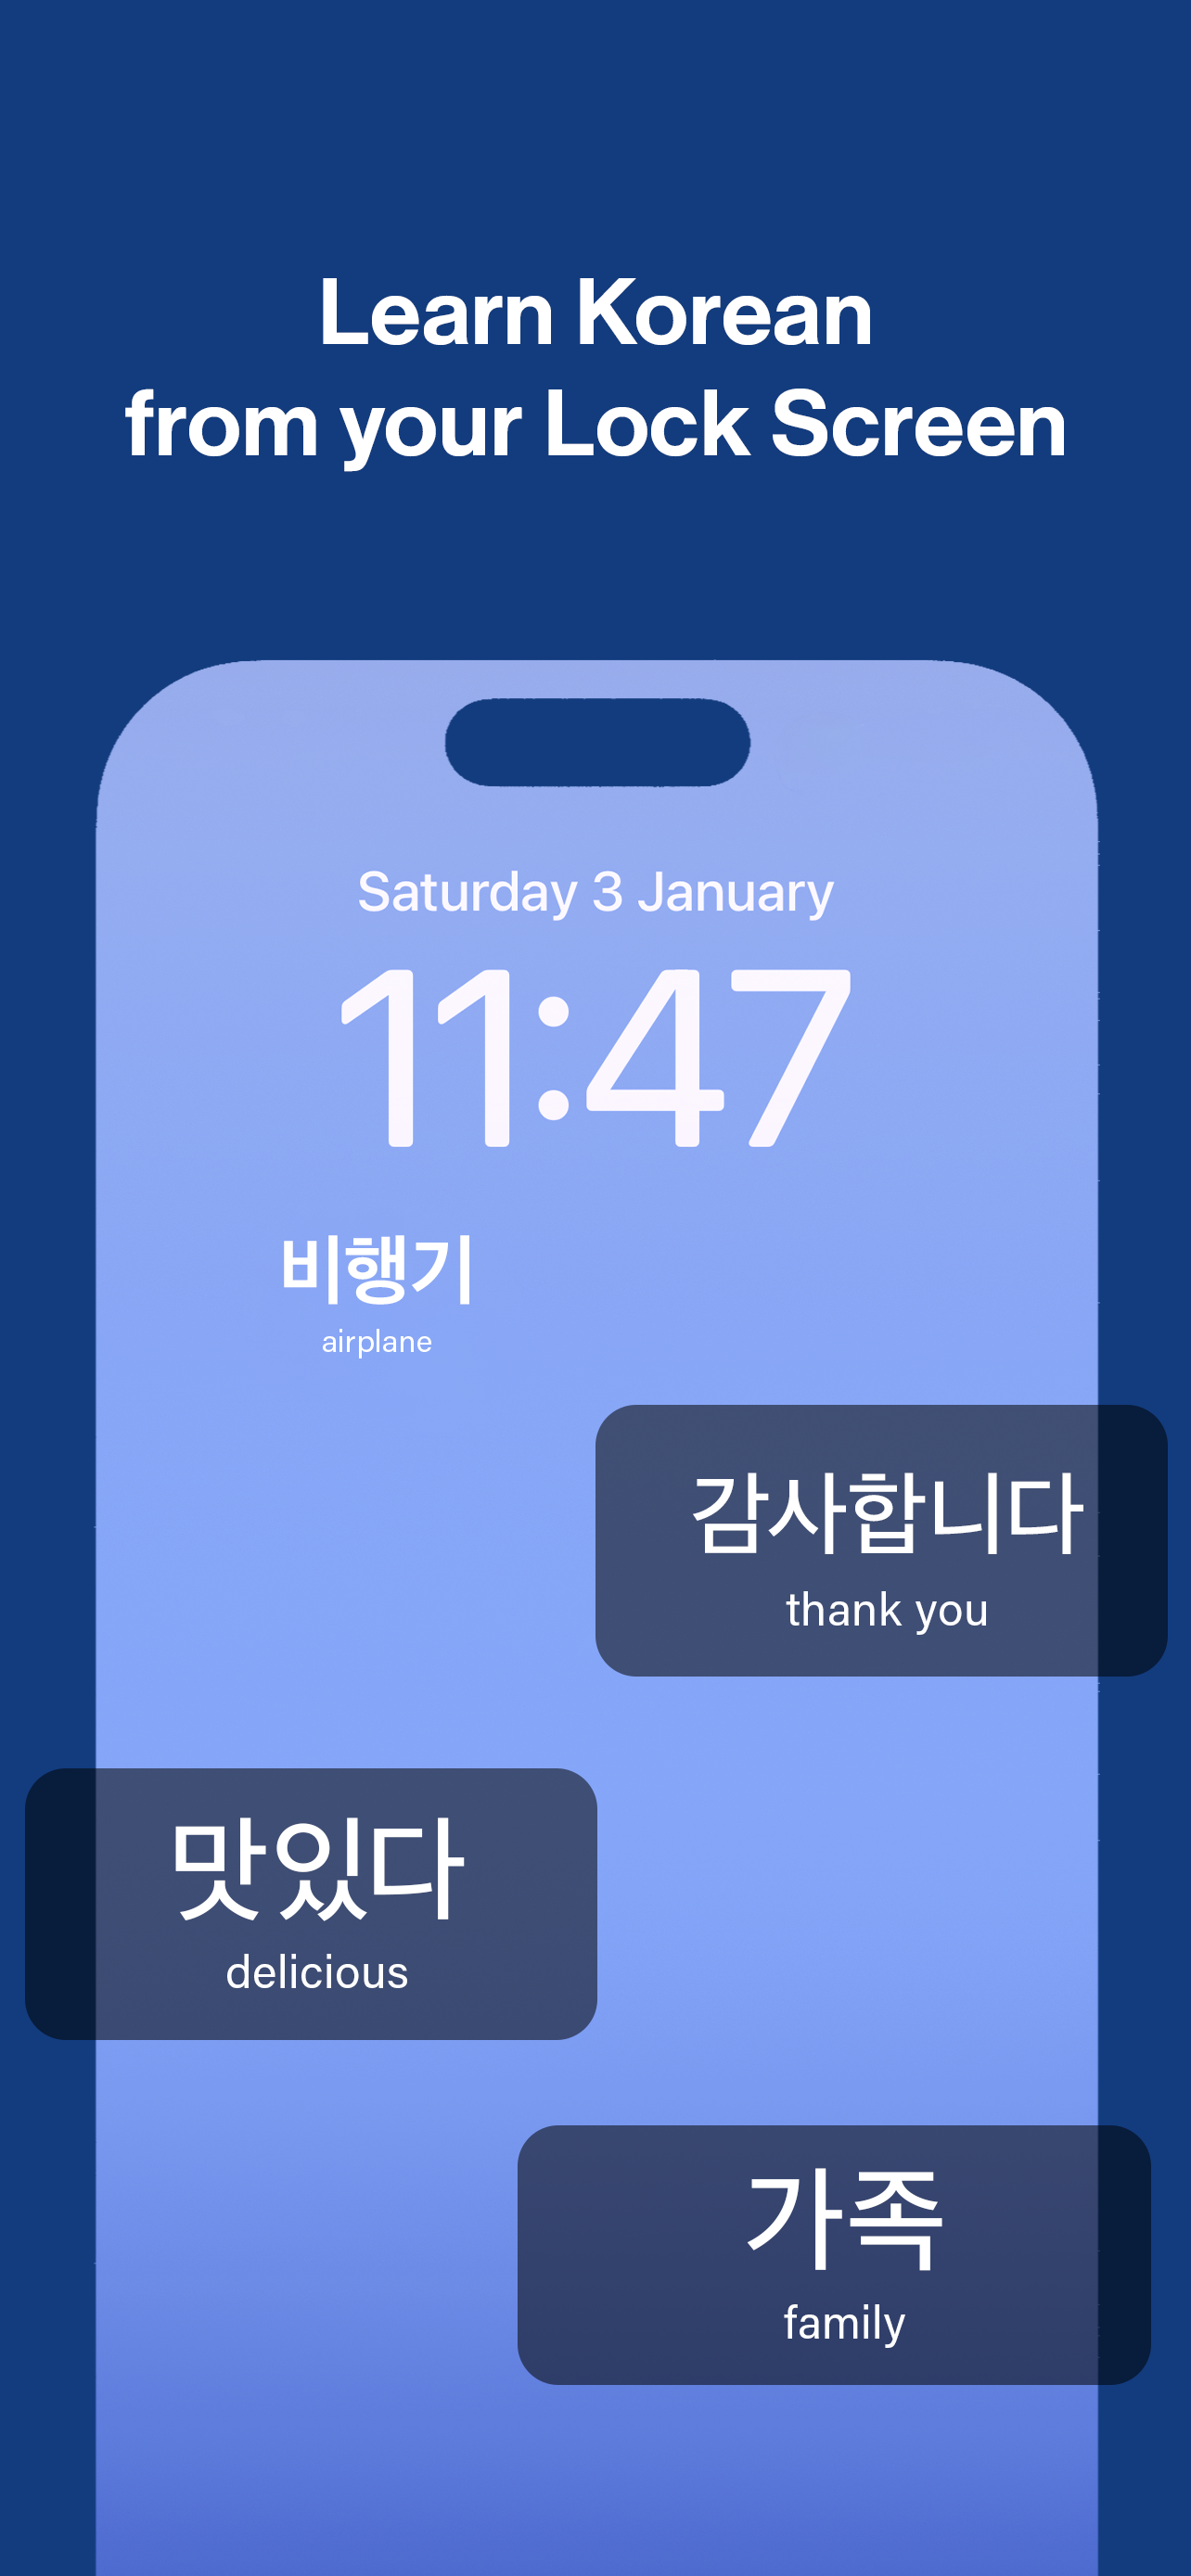
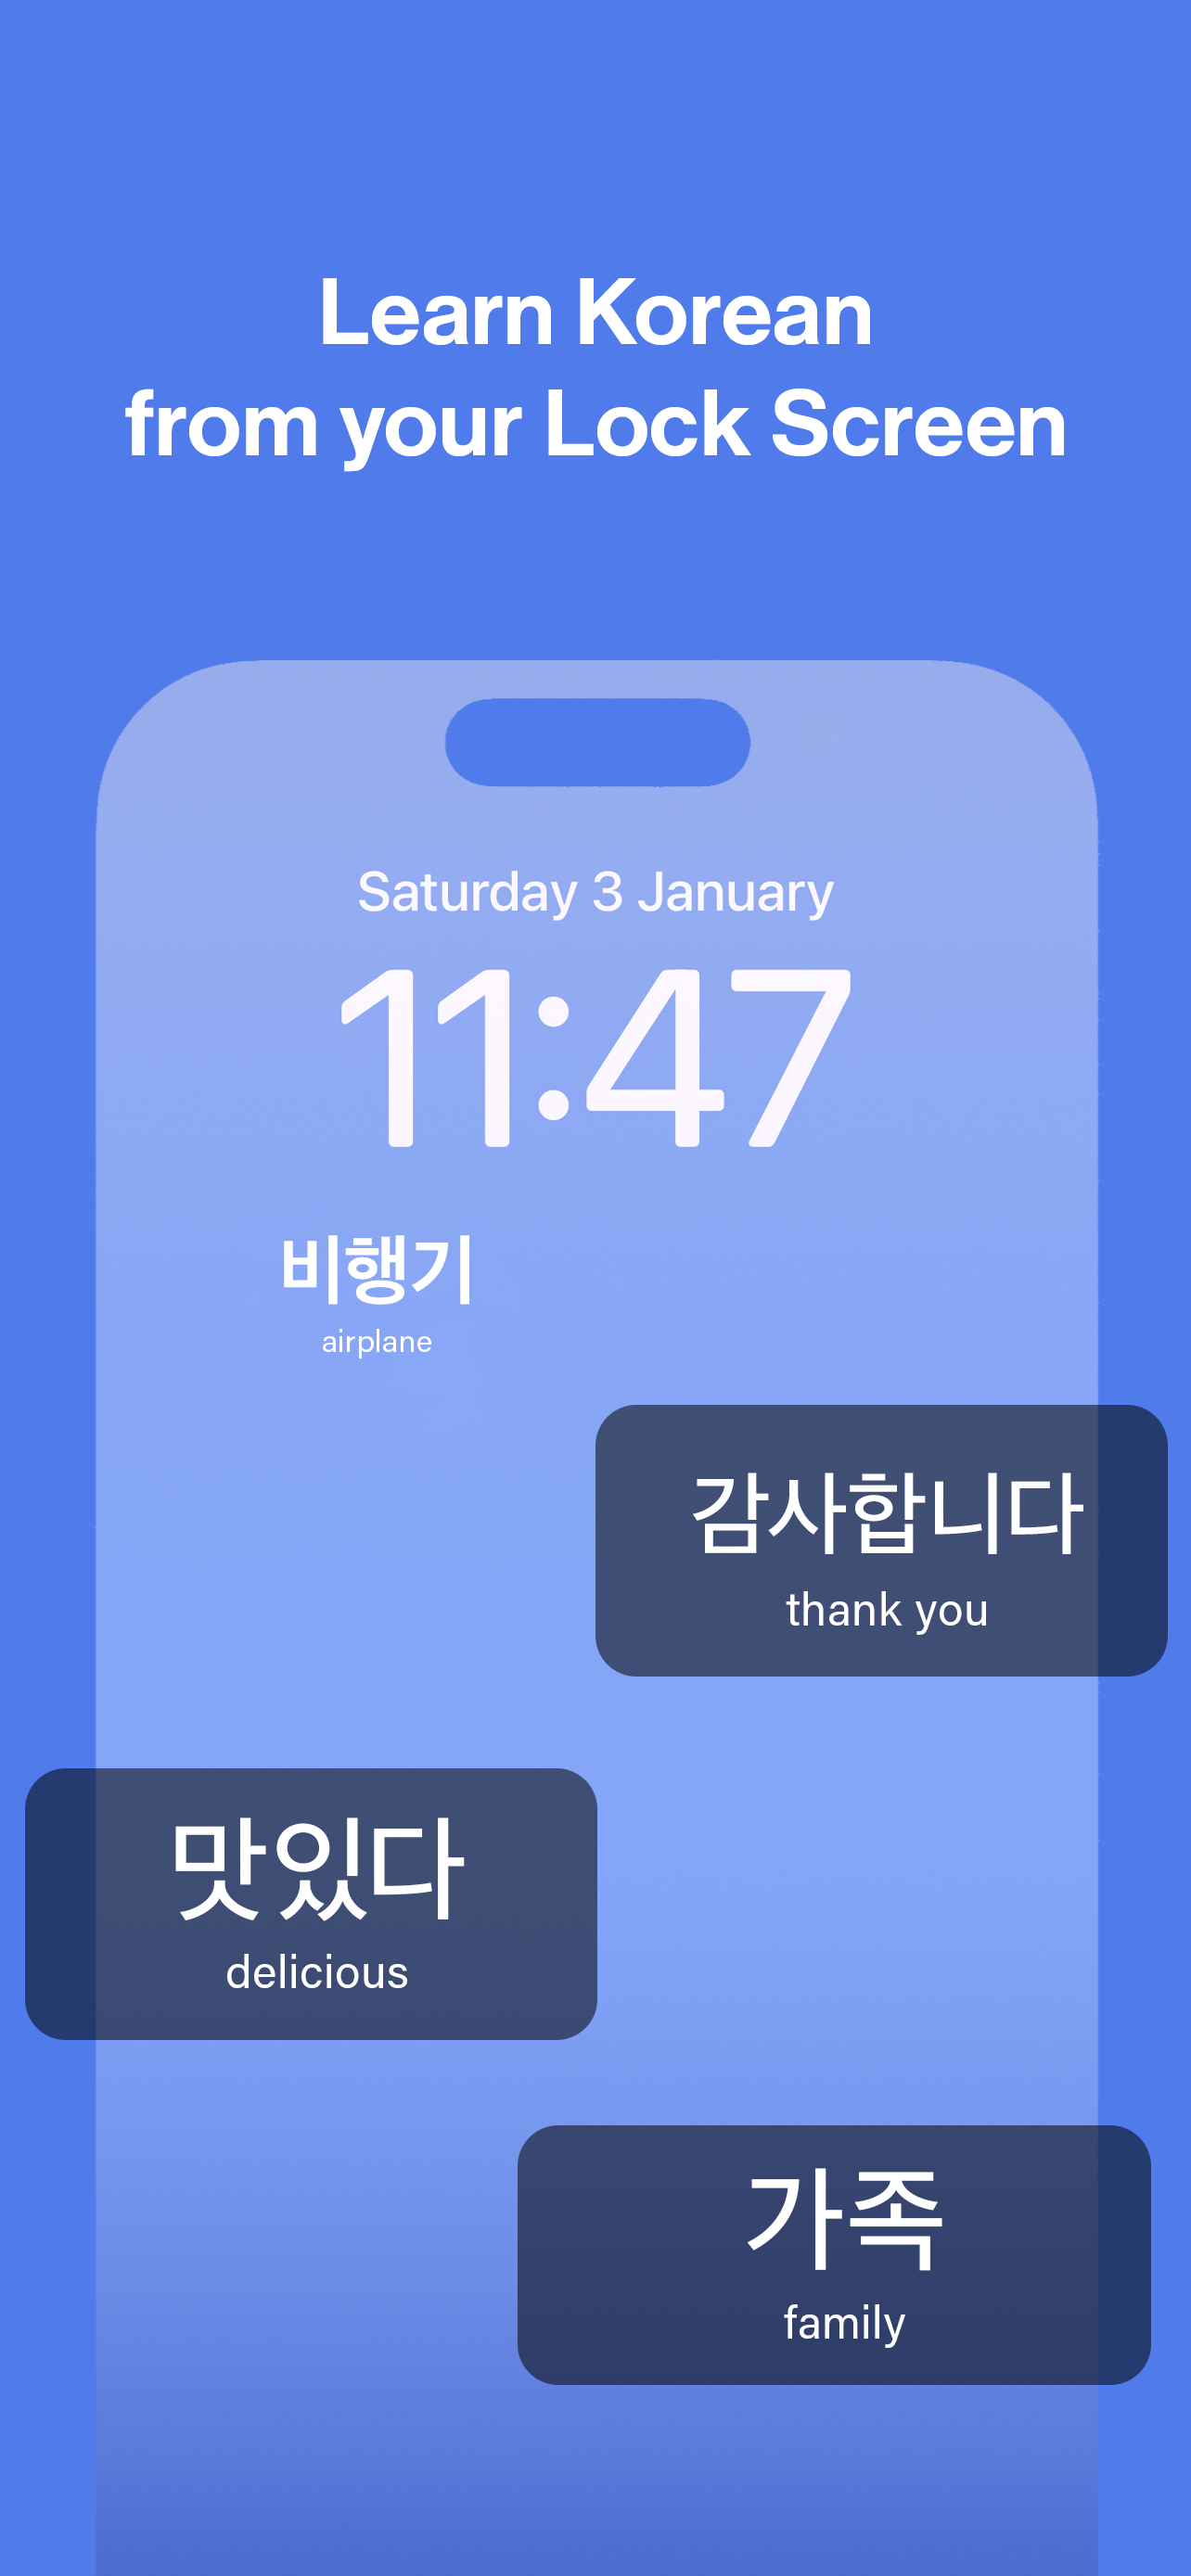
Remove waitlist sign up, add preview images

diff --git a/app/page.tsx b/app/page.tsx
@@ -1,5 +1,4 @@
 import Image from "next/image";
-import Script from "next/script";
 
 export default function Home() {
   return (
@@ -78,9 +77,9 @@ export default function Home() {
             </div>
 
             {/* Store Buttons */}
-            {/* <div className="w-full pt-2 flex justify-center gap-3 flex-wrap">
+            <div className="w-full pt-2 flex justify-center lg:justify-start gap-3 flex-wrap">
               <a
-                href="https://apps.apple.com/us/app/daily-hangul/id6756919959"
+                href="https://apps.apple.com/az/app/daily-hangul/id6767769904"
                 target="_blank"
                 rel="noopener noreferrer"
                 className="inline-flex items-center justify-center gap-3 px-6 py-3 text-white bg-black rounded-xl hover:bg-black/80 transition-all shadow-lg hover:shadow-xl hover:-translate-y-0.5 active:translate-y-0"
@@ -93,48 +92,6 @@ export default function Home() {
                   <span className="text-xl font-bold tracking-wide">App Store</span>
                 </div>
               </a>
-              <a
-                href="https://play.google.com/store/apps/details?id=com.alexliu.dailyhangul"
-                target="_blank"
-                rel="noopener noreferrer"
-                className="inline-flex items-center justify-center gap-3 px-6 py-3 text-white bg-black rounded-xl hover:bg-black/80 transition-all shadow-lg hover:shadow-xl hover:-translate-y-0.5 active:translate-y-0"
-              >
-                <svg viewBox="0 0 512 512" className="w-7 h-7">
-                  <path d="M325.3 234.3L104.6 13l280.8 161.2-60.1 60.1z" fill="#00D2FF" />
-                  <path d="M47 0C34 6.8 25.3 19.2 25.3 35.3v441.3c0 16.1 8.7 28.5 21.7 35.3l256.6-256L47 0z" fill="#00F076" />
-                  <path d="M472.2 225.6l-58.9-34.1-65.7 64.5 65.7 64.5 60.1-34.1c18-14.3 18-46.5-1.2-60.8z" fill="#FFDA00" />
-                  <path d="M104.6 499l280.8-161.2-60.1-60.1L104.6 499z" fill="#FF3A44" />
-                </svg>
-                <div className="flex flex-col items-start leading-none">
-                  <span className="text-xs font-medium opacity-80 mb-0.5">Get it on</span>
-                  <span className="text-xl font-bold tracking-wide">Google Play</span>
-                </div>
-              </a>
-            </div> */}
-
-            {/* Waitlist Form */}
-            <div className="w-full pt-2 flex flex-col items-center">
-              <iframe
-                src="https://subscribe-forms.beehiiv.com/52117acb-b1f7-4ccb-a133-f9caad60fff1"
-                className="beehiiv-embed"
-                data-test-id="beehiiv-embed"
-                frameBorder="0"
-                style={{
-                  margin: 0,
-                  borderRadius: "0px",
-                  backgroundColor: "transparent",
-                  width: "400px",
-                  maxWidth: "100%",
-                  boxShadow: "0 0 #0000",
-                }}
-              />
-              <Script
-                src="https://subscribe-forms.beehiiv.com/embed.js"
-                strategy="afterInteractive"
-              />
-              <p className="text-xs text-foreground/50 mt-1 text-center max-w-[560px]">
-                By joining, you agree to receive updates from us.
-              </p>
             </div>
 
             {/* Feature Badges */}
@@ -144,21 +101,9 @@ export default function Home() {
           </div>
 
           {/* Right Column: App Preview */}
-          <div className="relative w-full aspect-square max-w-[500px] mx-auto lg:max-w-none flex items-center justify-center">
-            <div className="relative w-[55%] aspect-[9/19.5]">
-              <Image
-                src="/app-preview.png"
-                alt="App Preview"
-                fill
-                className="object-cover rounded-[2.5rem] shadow-2xl border-4 border-gray-900/10 bg-white"
-                priority
-              />
-            </div>
-          </div>
-
-          {/* Original dual-phone preview (restore later) */}
-          {/* <div className="relative w-full aspect-square max-w-[500px] mx-auto lg:max-w-none">
+          <div className="relative w-full aspect-square max-w-[500px] mx-auto lg:max-w-none">
             <div className="relative w-full h-full flex items-center justify-center">
+              {/* Main Phone */}
               <div className="relative w-[55%] aspect-[9/19.5] z-10 transform -rotate-2 -translate-x-16 lg:-translate-x-32">
                 <Image
                   src="/app-preview.png"
@@ -168,6 +113,7 @@ export default function Home() {
                   priority
                 />
               </div>
+              {/* Secondary Phone (Floating Right) */}
               <div className="absolute w-[50%] aspect-[9/19.5] z-0 transform translate-x-16 lg:translate-x-32 translate-y-12 rotate-6 opacity-100">
                 <Image
                   src="/app-preview-2.png"
@@ -178,7 +124,7 @@ export default function Home() {
                 />
               </div>
             </div>
-          </div> */}
+          </div>
         </div>
 
         {/* Reviews Section */}

diff --git a/app/admin/components/CharacterEditModal.tsx b/app/admin/components/CharacterEditModal.tsx
@@ -6,6 +6,7 @@ import { supabase } from "@/lib/supabase";
 export type ExampleSentence = {
     id?: number;
     korean: string;
+    romanization: string;
     english: string;
     audio_url?: string | null;
 };
@@ -13,6 +14,7 @@ export type ExampleSentence = {
 export type Character = {
     id: string;
     character: string;
+    romanization: string;
     meaning: string;
     freq_rank: number;
     topik_level: number;
@@ -92,12 +94,15 @@ export default function CharacterEditModal({ character, onClose, onSave }: Chara
             try {
                 const { data, error } = await supabase
                     .from("example_sentences")
-                    .select("id, korean, english, audio_url")
+                    .select("id, korean, romanization, english, audio_url")
                     .eq("character_id", character.id)
                     .order("id");
 
                 if (error) throw error;
-                const loaded: ExampleSentence[] = data || [];
+                const loaded: ExampleSentence[] = (data || []).map(s => ({
+                    ...s,
+                    romanization: s.romanization ?? "",
+                }));
                 setSentences(loaded);
                 const originals = new Map<number, ExampleSentence>();
                 for (const s of loaded) {
@@ -123,7 +128,7 @@ export default function CharacterEditModal({ character, onClose, onSave }: Chara
     };
 
     const handleAddSentence = () => {
-        setSentences(prev => [...prev, { korean: "", english: "" }]);
+        setSentences(prev => [...prev, { korean: "", romanization: "", english: "" }]);
     };
 
     const handleRemoveSentence = (index: number) => {
@@ -140,6 +145,7 @@ export default function CharacterEditModal({ character, onClose, onSave }: Chara
                 .update({
                     meaning: editingCharacter.meaning,
                     character: editingCharacter.character,
+                    romanization: editingCharacter.romanization,
                     freq_rank: editingCharacter.freq_rank,
                     topik_level: editingCharacter.topik_level,
                     category: editingCharacter.category,
@@ -174,6 +180,7 @@ export default function CharacterEditModal({ character, onClose, onSave }: Chara
                 .map(s => ({
                     character_id: editingCharacter.id,
                     korean: s.korean,
+                    romanization: s.romanization,
                     english: s.english,
                 }));
             if (toInsert.length > 0) {
@@ -192,6 +199,7 @@ export default function CharacterEditModal({ character, onClose, onSave }: Chara
                 const original = originalSentences.get(s.id);
                 if (original
                     && original.korean === s.korean
+                    && original.romanization === s.romanization
                     && original.english === s.english
                 ) continue;
 
@@ -199,6 +207,7 @@ export default function CharacterEditModal({ character, onClose, onSave }: Chara
                     .from("example_sentences")
                     .update({
                         korean: s.korean,
+                        romanization: s.romanization,
                         english: s.english,
                     })
                     .eq("id", s.id)
@@ -232,14 +241,25 @@ export default function CharacterEditModal({ character, onClose, onSave }: Chara
 
                 <form onSubmit={handleSubmit} className="grid grid-cols-1 md:grid-cols-2 gap-6">
                     <div className="space-y-4">
-                        <div>
-                            <label className="block text-sm font-medium text-gray-700">Word</label>
-                            <input
-                                type="text"
-                                value={editingCharacter.character}
-                                onChange={(e) => setEditingCharacter({ ...editingCharacter, character: e.target.value })}
-                                className="mt-1 block w-full border border-gray-300 rounded-md shadow-sm p-2"
-                            />
+                        <div className="grid grid-cols-2 gap-4">
+                            <div>
+                                <label className="block text-sm font-medium text-gray-700">Word</label>
+                                <input
+                                    type="text"
+                                    value={editingCharacter.character}
+                                    onChange={(e) => setEditingCharacter({ ...editingCharacter, character: e.target.value })}
+                                    className="mt-1 block w-full border border-gray-300 rounded-md shadow-sm p-2"
+                                />
+                            </div>
+                            <div>
+                                <label className="block text-sm font-medium text-gray-700">Romanization</label>
+                                <input
+                                    type="text"
+                                    value={editingCharacter.romanization ?? ""}
+                                    onChange={(e) => setEditingCharacter({ ...editingCharacter, romanization: e.target.value })}
+                                    className="mt-1 block w-full border border-gray-300 rounded-md shadow-sm p-2"
+                                />
+                            </div>
                         </div>
 
                         <div>
@@ -367,6 +387,16 @@ export default function CharacterEditModal({ character, onClose, onSave }: Chara
                                                         )}
                                                     </button>
                                                 </div>
+                                            </div>
+                                            <div>
+                                                <label className="block text-xs font-medium text-gray-500 mb-1">Romanization</label>
+                                                <input
+                                                    type="text"
+                                                    value={sentence.romanization ?? ""}
+                                                    onChange={(e) => handleSentenceChange(index, "romanization", e.target.value)}
+                                                    className="block w-full border-gray-300 rounded-md shadow-sm p-1.5 text-sm border focus:ring-black focus:border-black"
+                                                    placeholder="Romanization..."
+                                                />
                                             </div>
                                             <div>
                                                 <label className="block text-xs font-medium text-gray-500 mb-1">English</label>

diff --git a/app/admin/characters/page.tsx b/app/admin/characters/page.tsx
@@ -30,6 +30,7 @@ export default function CharactersPage() {
     const [visibleColumns, setVisibleColumns] = useState<Record<string, boolean>>({
         id: true,
         word: true,
+        romanization: true,
         meaning: true,
         example_sentences: true,
         topik_level: true,
@@ -48,7 +49,7 @@ export default function CharactersPage() {
         try {
             let query = supabase
                 .from("characters")
-                .select("*, example_sentences(id, korean, english)", { count: 'exact' });
+                .select("*, example_sentences(id, korean, romanization, english)", { count: 'exact' });
 
             if (searchTerm) {
                 query = query.ilike('character', `%${searchTerm}%`);
@@ -215,6 +216,11 @@ export default function CharactersPage() {
                                     Word {sortField === 'character' && (sortOrder === 'asc' ? '↑' : '↓')}
                                 </th>
                             )}
+                            {visibleColumns.romanization && (
+                                <th onClick={() => handleSort('romanization')} className="px-6 py-3 text-left text-xs font-medium text-gray-500 uppercase tracking-wider cursor-pointer hover:bg-gray-100">
+                                    Romanization {sortField === 'romanization' && (sortOrder === 'asc' ? '↑' : '↓')}
+                                </th>
+                            )}
                             {visibleColumns.meaning && (
                                 <th onClick={() => handleSort('meaning')} className="px-6 py-3 text-left text-xs font-medium text-gray-500 uppercase tracking-wider cursor-pointer hover:bg-gray-100">
                                     Meaning {sortField === 'meaning' && (sortOrder === 'asc' ? '↑' : '↓')}
@@ -257,6 +263,7 @@ export default function CharactersPage() {
                             <tr key={char.id}>
                                 {visibleColumns.id && <td className="px-6 py-4 whitespace-nowrap text-xs text-gray-400 font-mono">{String(char.id).substring(0, 8)}</td>}
                                 {visibleColumns.word && <td className="px-6 py-4 whitespace-nowrap text-lg font-bold">{char.character}</td>}
+                                {visibleColumns.romanization && <td className="px-6 py-4 whitespace-nowrap text-sm italic text-gray-600">{char.romanization}</td>}
                                 {visibleColumns.meaning && (
                                     <td className="px-6 py-4 text-sm text-gray-500 max-w-[200px]" title={char.meaning}>
                                         {char.meaning}
@@ -269,6 +276,9 @@ export default function CharactersPage() {
                                                 {char.example_sentences.slice(0, 2).map((sentence, idx) => (
                                                     <div key={idx} className="border-b last:border-0 pb-1 last:pb-0 border-gray-100">
                                                         <div className="font-semibold text-gray-800">{sentence.korean}</div>
+                                                        {sentence.romanization && (
+                                                            <div className="italic text-gray-500">{sentence.romanization}</div>
+                                                        )}
                                                         <div className="text-gray-400">{sentence.english}</div>
                                                     </div>
                                                 ))}

diff --git a/app/admin/sentence-reports/page.tsx b/app/admin/sentence-reports/page.tsx
@@ -15,6 +15,7 @@ type SentenceReport = {
     issue_type: string;
     characters: {
         meaning: string | null;
+        romanization: string | null;
         category: string | null;
     } | null;
 };
@@ -51,7 +52,7 @@ export default function SentenceReportsPage() {
         try {
             let query = supabase
                 .from("sentence_reports")
-                .select("*, characters(meaning, category)");
+                .select("*, characters(meaning, romanization, category)");
 
             if (sortField) {
                 query = query.order(sortField, { ascending: sortOrder === 'asc' });
@@ -254,6 +255,11 @@ export default function SentenceReportsPage() {
                                     <td className="px-6 py-4 whitespace-nowrap">
                                         <div className="flex flex-col">
                                             <span className="text-lg font-bold text-gray-900">{report.character_content}</span>
+                                            {report.characters?.romanization && (
+                                                <span className="text-xs italic text-gray-600">
+                                                    {report.characters.romanization}
+                                                </span>
+                                            )}
                                             {report.characters?.meaning && (
                                                 <span className="text-xs text-gray-500 max-w-[150px] truncate" title={report.characters.meaning}>
                                                     {report.characters.meaning}